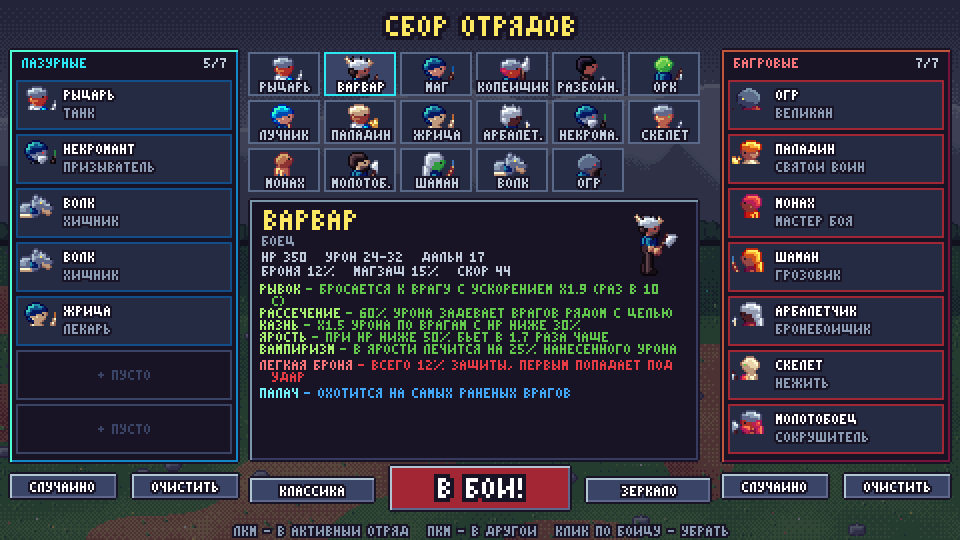
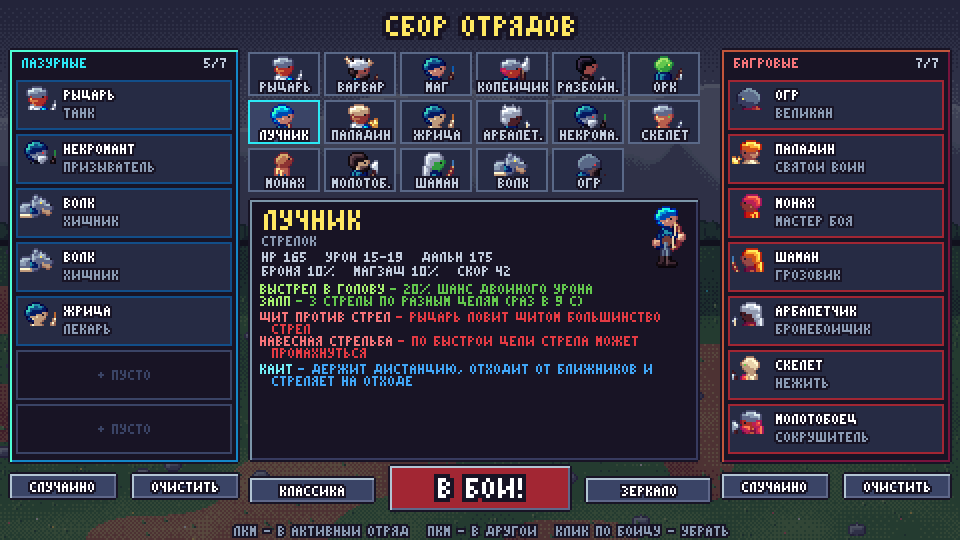
Drop traits that only restate stats
Armor, HP, speed, damage, range, cooldown and dodge are already shown as
numbers in the unit card, so traits like "heavy armor", "slow", "fragile"
or "weak hits" duplicated them and cluttered the screen. Only real
mechanics remain as perks/flaws; units without such flaws simply list none.

Claude-Session: https://claude.ai/code/session_01MR1dGkQ8mMpcRWirygjCXZ

Changed region(s): [[0.25, 0.3852, 0.7188, 0.7407], [0.25, 0.0889, 0.4375, 0.2667], [0.2812, 0.3852, 0.375, 0.4741]]

diff --git a/game/units.py b/game/units.py
@@ -112,16 +112,14 @@ ROSTER: Dict[str, UnitType] = {u.key: u for u in (
 
 # --- descriptions: perks (green), flaws (red), behavior (blue) --------------------------
 # Every line is one independent trait: "NAME", "short description".  Keep them in
-# sync with the mechanics in sim.py / ai.py.
+# sync with the mechanics in sim.py / ai.py.  Plain stats (HP, armor, speed, damage,
+# range, cooldown, dodge) are shown separately and are NOT traits.
 
 TRAITS: Dict[str, Dict[str, Tuple[Tuple[str, str], ...]]] = {
     "knight": dict(
         perks=(("ЩИТ", "блокирует 60% стрел и 30% ударов спереди"),
-               ("ТЯЖЁЛАЯ БРОНЯ", "поглощает 45% физического урона"),
                ("ПРОВОКАЦИЯ", "заставляет врага, прорвавшегося к стрелкам, биться с ним 3.5 с (раз в 9 с)")),
-        flaws=(("МЕДЛИТЕЛЬНОСТЬ", "один из самых медленных бойцов"),
-               ("УЯЗВИМ К МАГИИ", "броня не спасает от заклинаний"),
-               ("ОТКРЫТАЯ СПИНА", "щит не защищает сзади и от арбалетных болтов")),
+        flaws=(("ОТКРЫТАЯ СПИНА", "щит не защищает сзади и от арбалетных болтов"),),
         behavior=(("ТЕЛОХРАНИТЕЛЬ", "первым делом атакует тех, кто напал на своих стрелков"),)),
     "barbarian": dict(
         perks=(("РЫВОК", "бросается к врагу с ускорением x1.9 (раз в 10 с)"),
@@ -129,74 +127,54 @@ TRAITS: Dict[str, Dict[str, Tuple[Tuple[str, str], ...]]] = {
                ("КАЗНЬ", "x1.5 урона по врагам с HP ниже 30%"),
                ("ЯРОСТЬ", "при HP ниже 50% бьёт в 1.7 раза чаще"),
                ("ВАМПИРИЗМ", "в ярости лечится на 25% нанесённого урона")),
-        flaws=(("ЛЁГКАЯ БРОНЯ", "всего 12% защиты, первым попадает под удар"),),
         behavior=(("ПАЛАЧ", "охотится на самых раненых врагов"),)),
     "mage": dict(
         perks=(("ОГНЕННЫЙ ШАР", "взрыв бьёт всех врагов в радиусе"),
                ("ПОДЖОГ", "взрыв поджигает: 6 урона в секунду 3 с"),
                ("ЛЕДЯНАЯ ВОЛНА", "отталкивает и замедляет на 50% подошедших вплотную (раз в 9 с)")),
-        flaws=(("ХРУПКОСТЬ", "175 HP и никакой брони"),
-               ("ДОЛГИЙ КАСТ", "колдует раз в 2.8 с")),
         behavior=(("АРТИЛЛЕРИСТ", "бьёт туда, где врагов больше всего"),
                   ("ОСТОРОЖНОСТЬ", "держит дистанцию и отступает от ближников"))),
     "spearman": dict(
-        perks=(("ДЛИННОЕ КОПЬЁ", "самый длинный удар в ближнем бою, бьёт первым"),
-               ("КОНТРУДАР", "встречает врага, бегущего на него рывком: +100% урона и отбрасывает"),
+        perks=(("КОНТРУДАР", "встречает врага, бегущего на него рывком: +100% урона и отбрасывает"),
                ("СЛОМАННЫЙ РЫВОК", "контрудар обрывает рывок врага и его оглушающий удар")),
-        flaws=(("НЕПОВОРОТЛИВОСТЬ", "не успевает догнать стрелков и магов"),),
         behavior=(("ЛОВЕЦ РЫВКОВ", "в первую очередь целится во врагов в рывке"),)),
     "rogue": dict(
         perks=(("ШАГ СКВОЗЬ ТЕНЬ", "телепорт за спину стрелку или магу (раз в 12 с)"),
                ("УДАР В СПИНУ", "x1.9 урона, если враг смотрит не на него"),
                ("КРОВОТЕЧЕНИЕ", "удар в спину отнимает ещё 6 HP в секунду 3 с"),
-               ("УКЛОНЕНИЕ", "30% шанс увернуться от удара или стрелы"),
                ("ДЫМОВАЯ ШАШКА", "при HP ниже 35% исчезает и отступает (раз за бой)")),
-        flaws=(("СЛАБЫЕ УДАРЫ", "броня сильно режет его урон"),
-               ("ЛЁГКАЯ БРОНЯ", "долго не живёт под ударами")),
         behavior=(("ОБХОД С ФЛАНГА", "бежит по краю поля и ищет стрелков и магов"),)),
     "orc": dict(
         perks=(("РЕГЕНЕРАЦИЯ", "4 HP в секунду, 8 если давно не получал урон"),
                ("БОЕВОЙ КЛИЧ", "рывок к врагу, первый удар оглушает на 1.1 с (раз в 16 с)"),
                ("ВООДУШЕВЛЕНИЕ", "клич даёт союзникам рядом +20% урона на 6 с")),
-        flaws=(("МЕДЛЕННЫЕ УДАРЫ", "бьёт раз в 1.4 с"),
-               ("БЕЗ МАГИЧЕСКОЙ ЗАЩИТЫ", "заклинания проходят полностью")),
         behavior=(("ВЫЗОВ СИЛЬНЕЙШЕМУ", "ищет драки с самым крепким бойцом ближнего боя"),)),
     "archer": dict(
-        perks=(("ДАЛЬНИЙ БОЙ", "стреляет почти через всё поле"),
-               ("ВЫСТРЕЛ В ГОЛОВУ", "20% шанс двойного урона"),
+        perks=(("ВЫСТРЕЛ В ГОЛОВУ", "20% шанс двойного урона"),
                ("ЗАЛП", "3 стрелы по разным целям (раз в 9 с)")),
-        flaws=(("ХРУПКОСТЬ", "165 HP и лёгкая броня"),
-               ("ЩИТ ПРОТИВ СТРЕЛ", "рыцарь ловит щитом большинство стрел"),
+        flaws=(("ЩИТ ПРОТИВ СТРЕЛ", "рыцарь ловит щитом большинство стрел"),
                ("НАВЕСНАЯ СТРЕЛЬБА", "по быстрой цели стрела может промахнуться")),
         behavior=(("КАЙТ", "держит дистанцию, отходит от ближников и стреляет на отходе"),)),
     "paladin": dict(
         perks=(("АУРА ИСЦЕЛЕНИЯ", "союзники рядом восстанавливают 1.6 HP в секунду"),
-               ("СВЯТАЯ БУЛАВА", "святой урон, x1.5 по нежити"),
+               ("СВЯТАЯ БУЛАВА", "урон святой, по нежити x1.5"),
                ("БОЖЕСТВЕННЫЙ ЩИТ", "смертельный удар делает его неуязвимым на 3 с (раз за бой)")),
-        flaws=(("НЕВЫСОКИЙ УРОН", "15-21 за удар"),
-               ("МЕДЛИТЕЛЬНОСТЬ", "медленно добирается до врага")),
         behavior=(("КРЕСТОНОСЕЦ", "в первую очередь идёт на нежить и некромантов"),)),
     "cleric": dict(
         perks=(("ИСЦЕЛЕНИЕ", "лечит самого раненого союзника на 35-45 HP"),
                ("ОЧИЩЕНИЕ", "лечение снимает горение и кровотечение"),
                ("СВЯТАЯ ИСКРА", "если лечить некого, бьёт врагов (нежить x1.5)")),
-        flaws=(("ХРУПКОСТЬ", "150 HP и никакой брони"),
-               ("ПОЧТИ БЕЗ УРОНА", "сама почти не убивает")),
         behavior=(("СИДЕЛКА", "держится возле раненых союзников"),
                   ("ОСТОРОЖНОСТЬ", "отступает от ближников"))),
     "crossbowman": dict(
         perks=(("БРОНЕБОЙНЫЙ БОЛТ", "игнорирует 75% брони"),
                ("СКВОЗЬ ЩИТ", "болт не блокируется щитом рыцаря"),
-               ("ТЯЖЁЛЫЙ ВЫСТРЕЛ", "36-46 урона и отталкивает цель")),
-        flaws=(("ДОЛГАЯ ПЕРЕЗАРЯДКА", "один выстрел в 2.4 с"),
-               ("ПЛОХ ВБЛИЗИ", "в ближнем бою проигрывает почти всем")),
+               ("ОТБРАСЫВАНИЕ", "болт отталкивает цель")),
         behavior=(("ОХОТНИК ЗА БРОНЁЙ", "выбирает самых бронированных врагов"),
                   ("СТОИТ НАСМЕРТЬ", "никогда не отступает"))),
     "necromancer": dict(
         perks=(("ПОДНЯТЬ МЁРТВЫХ", "превращает труп любой стороны в скелета-слугу (до 2, раз в 6 с)"),
                ("ПОХИЩЕНИЕ ЖИЗНИ", "теневой снаряд лечит его на 50% урона")),
-        flaws=(("ХРУПКОСТЬ", "160 HP и никакой брони"),
-               ("СЛАБЫЙ БЕЗ МЁРТВЫХ", "пока нет трупов, урон невелик")),
         behavior=(("СТЕРВЯТНИК", "подбирается к свежим трупам, чтобы поднять их"),)),
     "skeleton": dict(
         perks=(("ВОССТАНИЕ", "через 2.5 с после смерти встаёт с 70% HP (раз за бой)"),
@@ -205,44 +183,30 @@ TRAITS: Dict[str, Dict[str, Tuple[Tuple[str, str], ...]]] = {
                ("НЕЧИСТЬ", "святой урон x1.5 и не даёт восстать")),
         behavior=(("МЁРТВАЯ ХВАТКА", "не меняет цель, пока она жива"),)),
     "monk": dict(
-        perks=(("ШКВАЛ УДАРОВ", "бьёт дважды в секунду"),
-               ("КОМБО", "каждый 4-й удар оглушает на 0.7 с и отбрасывает"),
-               ("УКЛОНЕНИЕ", "35% шанс увернуться, в том числе от стрел"),
+        perks=(("КОМБО", "каждый 4-й удар оглушает на 0.7 с и отбрасывает"),
                ("ДРОБЯЩИЕ КУЛАКИ", "игнорируют 30% брони, нежить x1.5")),
-        flaws=(("СЛАБЫЕ УДАРЫ", "9-12 урона за удар"),
-               ("ЛЁГКАЯ БРОНЯ", "проигрывает затяжную рубку громилам")),
         behavior=(("ПЕРЕХВАТЧИК", "ловит врагов, напавших на своих стрелков, иначе охотится на чужих"),)),
     "hammerer": dict(
         perks=(("ДРОБЯЩИЙ МОЛОТ", "игнорирует 30% брони, нежить x1.5"),
                ("СОТРЯСЕНИЕ", "каждый 3-й удар оглушает всех врагов вокруг и ранит их")),
-        flaws=(("МЕДЛЕННЫЕ УДАРЫ", "бьёт раз в 1.9 с"),
-               ("МЕДЛИТЕЛЬНОСТЬ", "его легко расстрелять на подходе")),
         behavior=(("В САМУЮ ГУЩУ", "идёт туда, где врагов больше всего"),)),
     "shaman": dict(
         perks=(("ЦЕПНАЯ МОЛНИЯ", "бьёт цель и перескакивает ещё на 2 врагов"),
                ("ЗАМЕДЛЕНИЕ", "молния замедляет на 50% на 1.5 с"),
                ("ЦЕЛЕБНЫЙ ДОЖДЬ", "лечит союзников вокруг на 25 HP (раз в 12 с)")),
-        flaws=(("ХРУПКОСТЬ", "165 HP и почти без брони"),
-               ("ЗАТУХАНИЕ", "каждый прыжок молнии слабее на 30%")),
+        flaws=(("ЗАТУХАНИЕ", "каждый прыжок молнии слабее на 30%"),),
         behavior=(("ГРОЗОВИК", "целится в скопления врагов"),
                   ("ОСТОРОЖНОСТЬ", "отступает от ближников"))),
     "wolf": dict(
-        perks=(("СКОРОСТЬ", "самый быстрый боец на поле"),
-               ("УКУС", "вызывает кровотечение: 6 HP в секунду 2.5 с"),
+        perks=(("УКУС", "вызывает кровотечение: 6 HP в секунду 2.5 с"),
                ("СТАЯ", "+20% урона за каждого волка рядом"),
-               ("ВОЙ", "первый вой даёт рывок всем волкам рядом (раз за бой)"),
-               ("УКЛОНЕНИЕ", "15% шанс увернуться")),
-        flaws=(("ЛЁГКАЯ БРОНЯ", "в одиночку быстро гибнет"),),
+               ("ВОЙ", "первый вой даёт рывок всем волкам рядом (раз за бой)")),
         behavior=(("ОХОТА СТАЕЙ", "бросается на ту же добычу, что и другие волки"),
                   ("ОБХОД С ФЛАНГА", "бежит по краю поля к стрелкам и магам"))),
     "ogre": dict(
-        perks=(("ВЕЛИКАН", "560 HP, больше всех на поле"),
-               ("РАЗМАХ ДУБИНЫ", "50% урона задевает врагов рядом с целью"),
+        perks=(("РАЗМАХ ДУБИНЫ", "50% урона задевает врагов рядом с целью"),
                ("СОКРУШАЮЩИЙ УДАР", "отбрасывает, мелких врагов оглушает на 0.5 с"),
                ("ДРОБЯЩАЯ ДУБИНА", "игнорирует 30% брони, нежить x1.5")),
-        flaws=(("МЕДЛИТЕЛЬНОСТЬ", "самый медленный боец"),
-               ("МЕДЛЕННЫЕ УДАРЫ", "бьёт раз в 2.2 с"),
-               ("БОЛЬШАЯ МИШЕНЬ", "без магической защиты, удобная цель стрелкам")),
         behavior=(("ДАВКА", "идёт туда, где врагов больше всего, чтобы задеть многих"),)),
 }
 

diff --git a/tests/test_battle.py b/tests/test_battle.py
@@ -19,7 +19,7 @@ class RosterTest(unittest.TestCase):
         self.assertEqual({k for k, u in ROSTER.items() if u.ranged},
                          {"archer", "mage", "cleric", "crossbowman", "necromancer", "shaman"})
         for u in ROSTER.values():
-            self.assertTrue(u.perks and u.flaws and u.behavior, u.key)
+            self.assertTrue(u.perks and u.behavior, u.key)
             for name, desc in u.perks + u.flaws + u.behavior:
                 self.assertEqual(name, name.upper(), u.key)
                 self.assertTrue(desc and " - " not in desc, (u.key, name))

diff --git a/docs/BATTLE.md b/docs/BATTLE.md
@@ -65,14 +65,11 @@
 | Волк | Хищник | 245 | 10% / 5%, уклон 15% | 12–17 | 15 | 0.6 с | 72 |
 | Огр | Великан | 560 | 15% / 0% | 38–50 | 22 | 2.2 с | 27 |
 
-В игре особенности показаны цветами: 🟢 зелёным — перки (сильные стороны), 🔴 красным — недостатки, 🔵 синим — модель поведения ИИ. Каждая строка — одна независимая особенность: сначала название, потом короткое описание.
+Голые характеристики (HP, броня, урон, скорость, дальность, перезарядка, уклонение) — в таблице выше и в строках характеристик в игре. Ниже — только особые механики. В игре они показаны цветами: 🟢 зелёным — перки, 🔴 красным — недостатки, 🔵 синим — модель поведения ИИ. Каждая строка — одна независимая особенность: сначала название, потом короткое описание.
 
 ### Рыцарь
 - 🟢 **Щит** — блокирует 60% стрел и 30% ударов спереди
-- 🟢 **Тяжёлая броня** — поглощает 45% физического урона
 - 🟢 **Провокация** — заставляет врага, прорвавшегося к стрелкам, биться с ним 3.5 с (раз в 9 с)
-- 🔴 **Медлительность** — один из самых медленных бойцов
-- 🔴 **Уязвим к магии** — броня не спасает от заклинаний
 - 🔴 **Открытая спина** — щит не защищает сзади и от арбалетных болтов
 - 🔵 **Телохранитель** — первым делом атакует тех, кто напал на своих стрелков
 
@@ -82,83 +79,63 @@
 - 🟢 **Казнь** — x1.5 урона по врагам с HP ниже 30%
 - 🟢 **Ярость** — при HP ниже 50% бьёт в 1.7 раза чаще
 - 🟢 **Вампиризм** — в ярости лечится на 25% нанесённого урона
-- 🔴 **Лёгкая броня** — всего 12% защиты, первым попадает под удар
 - 🔵 **Палач** — охотится на самых раненых врагов
 
 ### Маг
 - 🟢 **Огненный шар** — взрыв бьёт всех врагов в радиусе
 - 🟢 **Поджог** — взрыв поджигает: 6 урона в секунду 3 с
 - 🟢 **Ледяная волна** — отталкивает и замедляет на 50% подошедших вплотную (раз в 9 с)
-- 🔴 **Хрупкость** — 175 HP и никакой брони
-- 🔴 **Долгий каст** — колдует раз в 2.8 с
 - 🔵 **Артиллерист** — бьёт туда, где врагов больше всего
 - 🔵 **Осторожность** — держит дистанцию и отступает от ближников
 
 ### Копейщик
-- 🟢 **Длинное копьё** — самый длинный удар в ближнем бою, бьёт первым
 - 🟢 **Контрудар** — встречает врага, бегущего на него рывком: +100% урона и отбрасывает
 - 🟢 **Сломанный рывок** — контрудар обрывает рывок врага и его оглушающий удар
-- 🔴 **Неповоротливость** — не успевает догнать стрелков и магов
 - 🔵 **Ловец рывков** — в первую очередь целится во врагов в рывке
 
 ### Разбойник
 - 🟢 **Шаг сквозь тень** — телепорт за спину стрелку или магу (раз в 12 с)
 - 🟢 **Удар в спину** — x1.9 урона, если враг смотрит не на него
 - 🟢 **Кровотечение** — удар в спину отнимает ещё 6 HP в секунду 3 с
-- 🟢 **Уклонение** — 30% шанс увернуться от удара или стрелы
 - 🟢 **Дымовая шашка** — при HP ниже 35% исчезает и отступает (раз за бой)
-- 🔴 **Слабые удары** — броня сильно режет его урон
-- 🔴 **Лёгкая броня** — долго не живёт под ударами
 - 🔵 **Обход с фланга** — бежит по краю поля и ищет стрелков и магов
 
 ### Орк
 - 🟢 **Регенерация** — 4 HP в секунду, 8 если давно не получал урон
 - 🟢 **Боевой клич** — рывок к врагу, первый удар оглушает на 1.1 с (раз в 16 с)
 - 🟢 **Воодушевление** — клич даёт союзникам рядом +20% урона на 6 с
-- 🔴 **Медленные удары** — бьёт раз в 1.4 с
-- 🔴 **Без магической защиты** — заклинания проходят полностью
 - 🔵 **Вызов сильнейшему** — ищет драки с самым крепким бойцом ближнего боя
 
 ### Лучник
-- 🟢 **Дальний бой** — стреляет почти через всё поле
 - 🟢 **Выстрел в голову** — 20% шанс двойного урона
 - 🟢 **Залп** — 3 стрелы по разным целям (раз в 9 с)
-- 🔴 **Хрупкость** — 165 HP и лёгкая броня
 - 🔴 **Щит против стрел** — рыцарь ловит щитом большинство стрел
 - 🔴 **Навесная стрельба** — по быстрой цели стрела может промахнуться
 - 🔵 **Кайт** — держит дистанцию, отходит от ближников и стреляет на отходе
 
 ### Паладин
 - 🟢 **Аура исцеления** — союзники рядом восстанавливают 1.6 HP в секунду
-- 🟢 **Святая булава** — святой урон, x1.5 по нежити
+- 🟢 **Святая булава** — урон святой, по нежити x1.5
 - 🟢 **Божественный щит** — смертельный удар делает его неуязвимым на 3 с (раз за бой)
-- 🔴 **Невысокий урон** — 15-21 за удар
-- 🔴 **Медлительность** — медленно добирается до врага
 - 🔵 **Крестоносец** — в первую очередь идёт на нежить и некромантов
 
 ### Жрица
 - 🟢 **Исцеление** — лечит самого раненого союзника на 35-45 HP
 - 🟢 **Очищение** — лечение снимает горение и кровотечение
 - 🟢 **Святая искра** — если лечить некого, бьёт врагов (нежить x1.5)
-- 🔴 **Хрупкость** — 150 HP и никакой брони
-- 🔴 **Почти без урона** — сама почти не убивает
 - 🔵 **Сиделка** — держится возле раненых союзников
 - 🔵 **Осторожность** — отступает от ближников
 
 ### Арбалетчик
 - 🟢 **Бронебойный болт** — игнорирует 75% брони
 - 🟢 **Сквозь щит** — болт не блокируется щитом рыцаря
-- 🟢 **Тяжёлый выстрел** — 36-46 урона и отталкивает цель
-- 🔴 **Долгая перезарядка** — один выстрел в 2.4 с
-- 🔴 **Плох вблизи** — в ближнем бою проигрывает почти всем
+- 🟢 **Отбрасывание** — болт отталкивает цель
 - 🔵 **Охотник за бронёй** — выбирает самых бронированных врагов
 - 🔵 **Стоит насмерть** — никогда не отступает
 
 ### Некромант
 - 🟢 **Поднять мёртвых** — превращает труп любой стороны в скелета-слугу (до 2, раз в 6 с)
 - 🟢 **Похищение жизни** — теневой снаряд лечит его на 50% урона
-- 🔴 **Хрупкость** — 160 HP и никакой брони
-- 🔴 **Слабый без мёртвых** — пока нет трупов, урон невелик
 - 🔵 **Стервятник** — подбирается к свежим трупам, чтобы поднять их
 
 ### Скелет
@@ -169,48 +146,34 @@
 - 🔵 **Мёртвая хватка** — не меняет цель, пока она жива
 
 ### Монах
-- 🟢 **Шквал ударов** — бьёт дважды в секунду
 - 🟢 **Комбо** — каждый 4-й удар оглушает на 0.7 с и отбрасывает
-- 🟢 **Уклонение** — 35% шанс увернуться, в том числе от стрел
 - 🟢 **Дробящие кулаки** — игнорируют 30% брони, нежить x1.5
-- 🔴 **Слабые удары** — 9-12 урона за удар
-- 🔴 **Лёгкая броня** — проигрывает затяжную рубку громилам
 - 🔵 **Перехватчик** — ловит врагов, напавших на своих стрелков, иначе охотится на чужих
 
 ### Молотобоец
 - 🟢 **Дробящий молот** — игнорирует 30% брони, нежить x1.5
 - 🟢 **Сотрясение** — каждый 3-й удар оглушает всех врагов вокруг и ранит их
-- 🔴 **Медленные удары** — бьёт раз в 1.9 с
-- 🔴 **Медлительность** — его легко расстрелять на подходе
 - 🔵 **В самую гущу** — идёт туда, где врагов больше всего
 
 ### Шаман
 - 🟢 **Цепная молния** — бьёт цель и перескакивает ещё на 2 врагов
 - 🟢 **Замедление** — молния замедляет на 50% на 1.5 с
 - 🟢 **Целебный дождь** — лечит союзников вокруг на 25 HP (раз в 12 с)
-- 🔴 **Хрупкость** — 165 HP и почти без брони
 - 🔴 **Затухание** — каждый прыжок молнии слабее на 30%
 - 🔵 **Грозовик** — целится в скопления врагов
 - 🔵 **Осторожность** — отступает от ближников
 
 ### Волк
-- 🟢 **Скорость** — самый быстрый боец на поле
 - 🟢 **Укус** — вызывает кровотечение: 6 HP в секунду 2.5 с
 - 🟢 **Стая** — +20% урона за каждого волка рядом
 - 🟢 **Вой** — первый вой даёт рывок всем волкам рядом (раз за бой)
-- 🟢 **Уклонение** — 15% шанс увернуться
-- 🔴 **Лёгкая броня** — в одиночку быстро гибнет
 - 🔵 **Охота стаей** — бросается на ту же добычу, что и другие волки
 - 🔵 **Обход с фланга** — бежит по краю поля к стрелкам и магам
 
 ### Огр
-- 🟢 **Великан** — 560 HP, больше всех на поле
 - 🟢 **Размах дубины** — 50% урона задевает врагов рядом с целью
 - 🟢 **Сокрушающий удар** — отбрасывает, мелких врагов оглушает на 0.5 с
 - 🟢 **Дробящая дубина** — игнорирует 30% брони, нежить x1.5
-- 🔴 **Медлительность** — самый медленный боец
-- 🔴 **Медленные удары** — бьёт раз в 2.2 с
-- 🔴 **Большая мишень** — без магической защиты, удобная цель стрелкам
 - 🔵 **Давка** — идёт туда, где врагов больше всего, чтобы задеть многих
 
 Модель урона:

diff --git a/CLAUDE.md b/CLAUDE.md
@@ -19,6 +19,7 @@ PixelForge: Python engine that generates all pixel-art graphics in code. Only de
 - New class: `UnitType` in `ROSTER` + `TRAITS` entry + branch in `look_for` + behaviour in `ai.py`, then rebalance.
 - Unit descriptions live in `TRAITS` (units.py): perks (green), flaws (red), behavior (blue); one independent trait
   per entry, `("NAME", "short description")`; keep them true to the mechanics. Menu shows them in that order.
+  Plain stats (HP, armor, speed, damage, range, cooldown, dodge) are shown as stats, never as traits.
 - No screen shake (user request); impact feel comes from hit-stop and slow-mo.
 - Inspect visually: record with `--record`, then `ffmpeg ... -vf "fps=6,tile=3x3"` to look at frame sequences.
 
